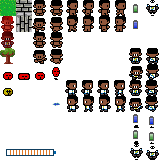
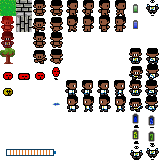
Game Over and retry

Changed region(s): [[0.8125, 0.7188, 1.0, 1.0], [0.8125, 0.6875, 0.875, 0.7812]]

diff --git a/src/com/alonerpg/main/Game.java b/src/com/alonerpg/main/Game.java
@@ -3,7 +3,9 @@ package com.alonerpg.main;
 import java.awt.Canvas;
 import java.awt.Color;
 import java.awt.Dimension;
+import java.awt.Font;
 import java.awt.Graphics;
+import java.awt.Graphics2D;
 import java.awt.event.KeyEvent;
 import java.awt.event.KeyListener;
 import java.awt.event.MouseEvent;
@@ -50,6 +52,11 @@ public class Game extends Canvas implements Runnable, KeyListener, MouseListener
 	public static Random rand;
 	
 	public UI ui;
+	private int framesGameOver = 0;
+	private boolean showGameOver = true;
+	private boolean restartGame = false;
+	
+	public static String gameState = "GameOver"; 
 		
 	public Game(){
 		rand = new Random();
@@ -103,23 +110,42 @@ public class Game extends Canvas implements Runnable, KeyListener, MouseListener
 	
 	/*Cuida da logica do jogo*/
 	public void tick() {
+		if(gameState == "Normal") {
 		
-		for(int i = 0; i < entities.size(); i++) {
-			Entity e = entities.get(i);
-			e.tick();
-		}
-		
-		for(int i = 0; i < lightnings.size(); i++) {
-			Entity e = lightnings.get(i);
-			e.tick();
-		}
-		
-		if(enemies.size() == 0) {
-			System.out.println("Proximo nivel");
-			curLevel++;
-			if(curLevel > maxLevel) {
-				curLevel = 1;
+			for(int i = 0; i < entities.size(); i++) {
+				Entity e = entities.get(i);
+				e.tick();
 			}
+			
+			for(int i = 0; i < lightnings.size(); i++) {
+				Entity e = lightnings.get(i);
+				e.tick();
+			}
+			
+			if(enemies.size() == 0) {
+				System.out.println("Proximo nivel");
+				curLevel++;
+				if(curLevel > maxLevel) {
+					curLevel = 1;
+				}
+				String newWorld = "/level"+curLevel+".png";
+				World.restartGame(newWorld);
+			}
+		}else if(gameState == "GameOver") {
+			this.framesGameOver++;
+			if(this.framesGameOver == 40) {
+				this.framesGameOver = 0;
+				if(this.showGameOver )
+					this.showGameOver = false;
+				else
+					this.showGameOver = true;
+			}
+		}
+		
+		if(restartGame) {
+			restartGame = false;
+			gameState = "Normal";
+			curLevel = 1;
 			String newWorld = "/level"+curLevel+".png";
 			World.restartGame(newWorld);
 		}
@@ -165,6 +191,17 @@ public class Game extends Canvas implements Runnable, KeyListener, MouseListener
 		g.dispose(); //Limpar dados que tem na imagem que nao precisa que ja foram usado antes (melhora a performance)
 		g = bs.getDrawGraphics();
 		g.drawImage(image, 0, 0, WIDTH*SCALE, HEIGHT*SCALE, null);
+		if(gameState == "GameOver") {
+			Graphics2D g2 = (Graphics2D) g;
+			g2.setColor(new Color(0, 0, 0, 150));
+			g2.fillRect(0, 0, (WIDTH*SCALE), (HEIGHT*SCALE));
+			g.setFont(new Font("arial", Font.BOLD, 50));
+			g.setColor(Color.white);
+			g.drawString("GAME OVER", (WIDTH*SCALE/2) - 130, (HEIGHT*SCALE/2) - 50);
+			g.setFont(new Font("arial", Font.BOLD, 30));
+			if(showGameOver)
+				g.drawString("Pressione start para reiniciar...", (WIDTH*SCALE/2) - 200, (HEIGHT*SCALE/2));
+		}
 		
 		bs.show(); //Para mostrar de fato os graficos
 	}
@@ -222,6 +259,10 @@ public class Game extends Canvas implements Runnable, KeyListener, MouseListener
 		if(e.getKeyCode() == KeyEvent.VK_J ||
 			e.getKeyCode() == KeyEvent.VK_X) {
 			player.shoot = true;
+		}
+		
+		if(e.getKeyCode() == KeyEvent.VK_ENTER) {
+			this.restartGame = true;
 		}
 	}
 

diff --git a/src/com/alonerpg/entities/Uniform.java b/src/com/alonerpg/entities/Uniform.java
@@ -1,11 +1,40 @@
 package com.alonerpg.entities;
 
+import java.awt.Graphics;
 import java.awt.image.BufferedImage;
+
+import com.alonerpg.main.Game;
+import com.alonerpg.world.Camera;
 
 public class Uniform extends Entity{
 
+private BufferedImage[] Animation;
+	
+	private int frames = 0, maxFrames = 20, index = 0, maxIndex = 1;
+
 	public Uniform(int x, int y, int width, int height, BufferedImage sprite) {
 		super(x, y, width, height, sprite);
+		
+		Animation = new BufferedImage[2];
+		
+		for(int i=0; i<2; i++) {
+			Animation[i] = Game.spritesheet.getSprite(128+(i*16), 144, 16, 16);
+		}
+	}
+	
+	public void tick() {
+		frames++;
+		if(frames == maxFrames) {
+			frames = 0;
+			index++;
+			if(index>maxIndex) {
+				index=0;
+			}
+		}
+	}
+	
+	public void render(Graphics g) {
+		g.drawImage(Animation[index], this.getX() - Camera.x, this.getY() - Camera.y, null);
 	}
 
 }

diff --git a/src/com/alonerpg/entities/Energy.java b/src/com/alonerpg/entities/Energy.java
@@ -1,11 +1,39 @@
 package com.alonerpg.entities;
 
+import java.awt.Graphics;
 import java.awt.image.BufferedImage;
+
+import com.alonerpg.main.Game;
+import com.alonerpg.world.Camera;
 
 public class Energy extends Entity {
 
+private BufferedImage[] Animation;
+	
+	private int frames = 0, maxFrames = 20, index = 0, maxIndex = 1;
+
 	public Energy(int x, int y, int width, int height, BufferedImage sprite) {
 		super(x, y, width, height, sprite);
+		
+		Animation = new BufferedImage[2];
+		
+		for(int i=0; i<2; i++) {
+			Animation[i] = Game.spritesheet.getSprite(128+(i*16), 112, 16, 16);
+		}
 	}
-
+	
+	public void tick() {
+		frames++;
+		if(frames == maxFrames) {
+			frames = 0;
+			index++;
+			if(index>maxIndex) {
+				index=0;
+			}
+		}
+	}
+	
+	public void render(Graphics g) {
+		g.drawImage(Animation[index], this.getX() - Camera.x, this.getY() - Camera.y, null);
+	}
 }

diff --git a/src/com/alonerpg/entities/LifePack.java b/src/com/alonerpg/entities/LifePack.java
@@ -10,7 +10,7 @@ public class LifePack extends Entity{
 	
 	private BufferedImage[] Animation;
 	
-	private int frames = 0, maxFrames = 30, index = 0, maxIndex = 1;
+	private int frames = 0, maxFrames = 20, index = 0, maxIndex = 1;
 
 	public LifePack(int x, int y, int width, int height, BufferedImage sprite) {
 		super(x, y, width, height, sprite);

diff --git a/src/com/alonerpg/graficos/UI.java b/src/com/alonerpg/graficos/UI.java
@@ -3,7 +3,6 @@ package com.alonerpg.graficos;
 import java.awt.Color;
 import java.awt.Font;
 import java.awt.Graphics;
-
 import com.alonerpg.main.Game;
 
 public class UI {

diff --git a/src/com/alonerpg/entities/Player.java b/src/com/alonerpg/entities/Player.java
@@ -177,7 +177,7 @@ public class Player extends Entity {
 		}
 		
 		if(life <= 0) {
-			
+			Game.gameState = "GameOver";
 		}
 		
 		checkLifepack();
